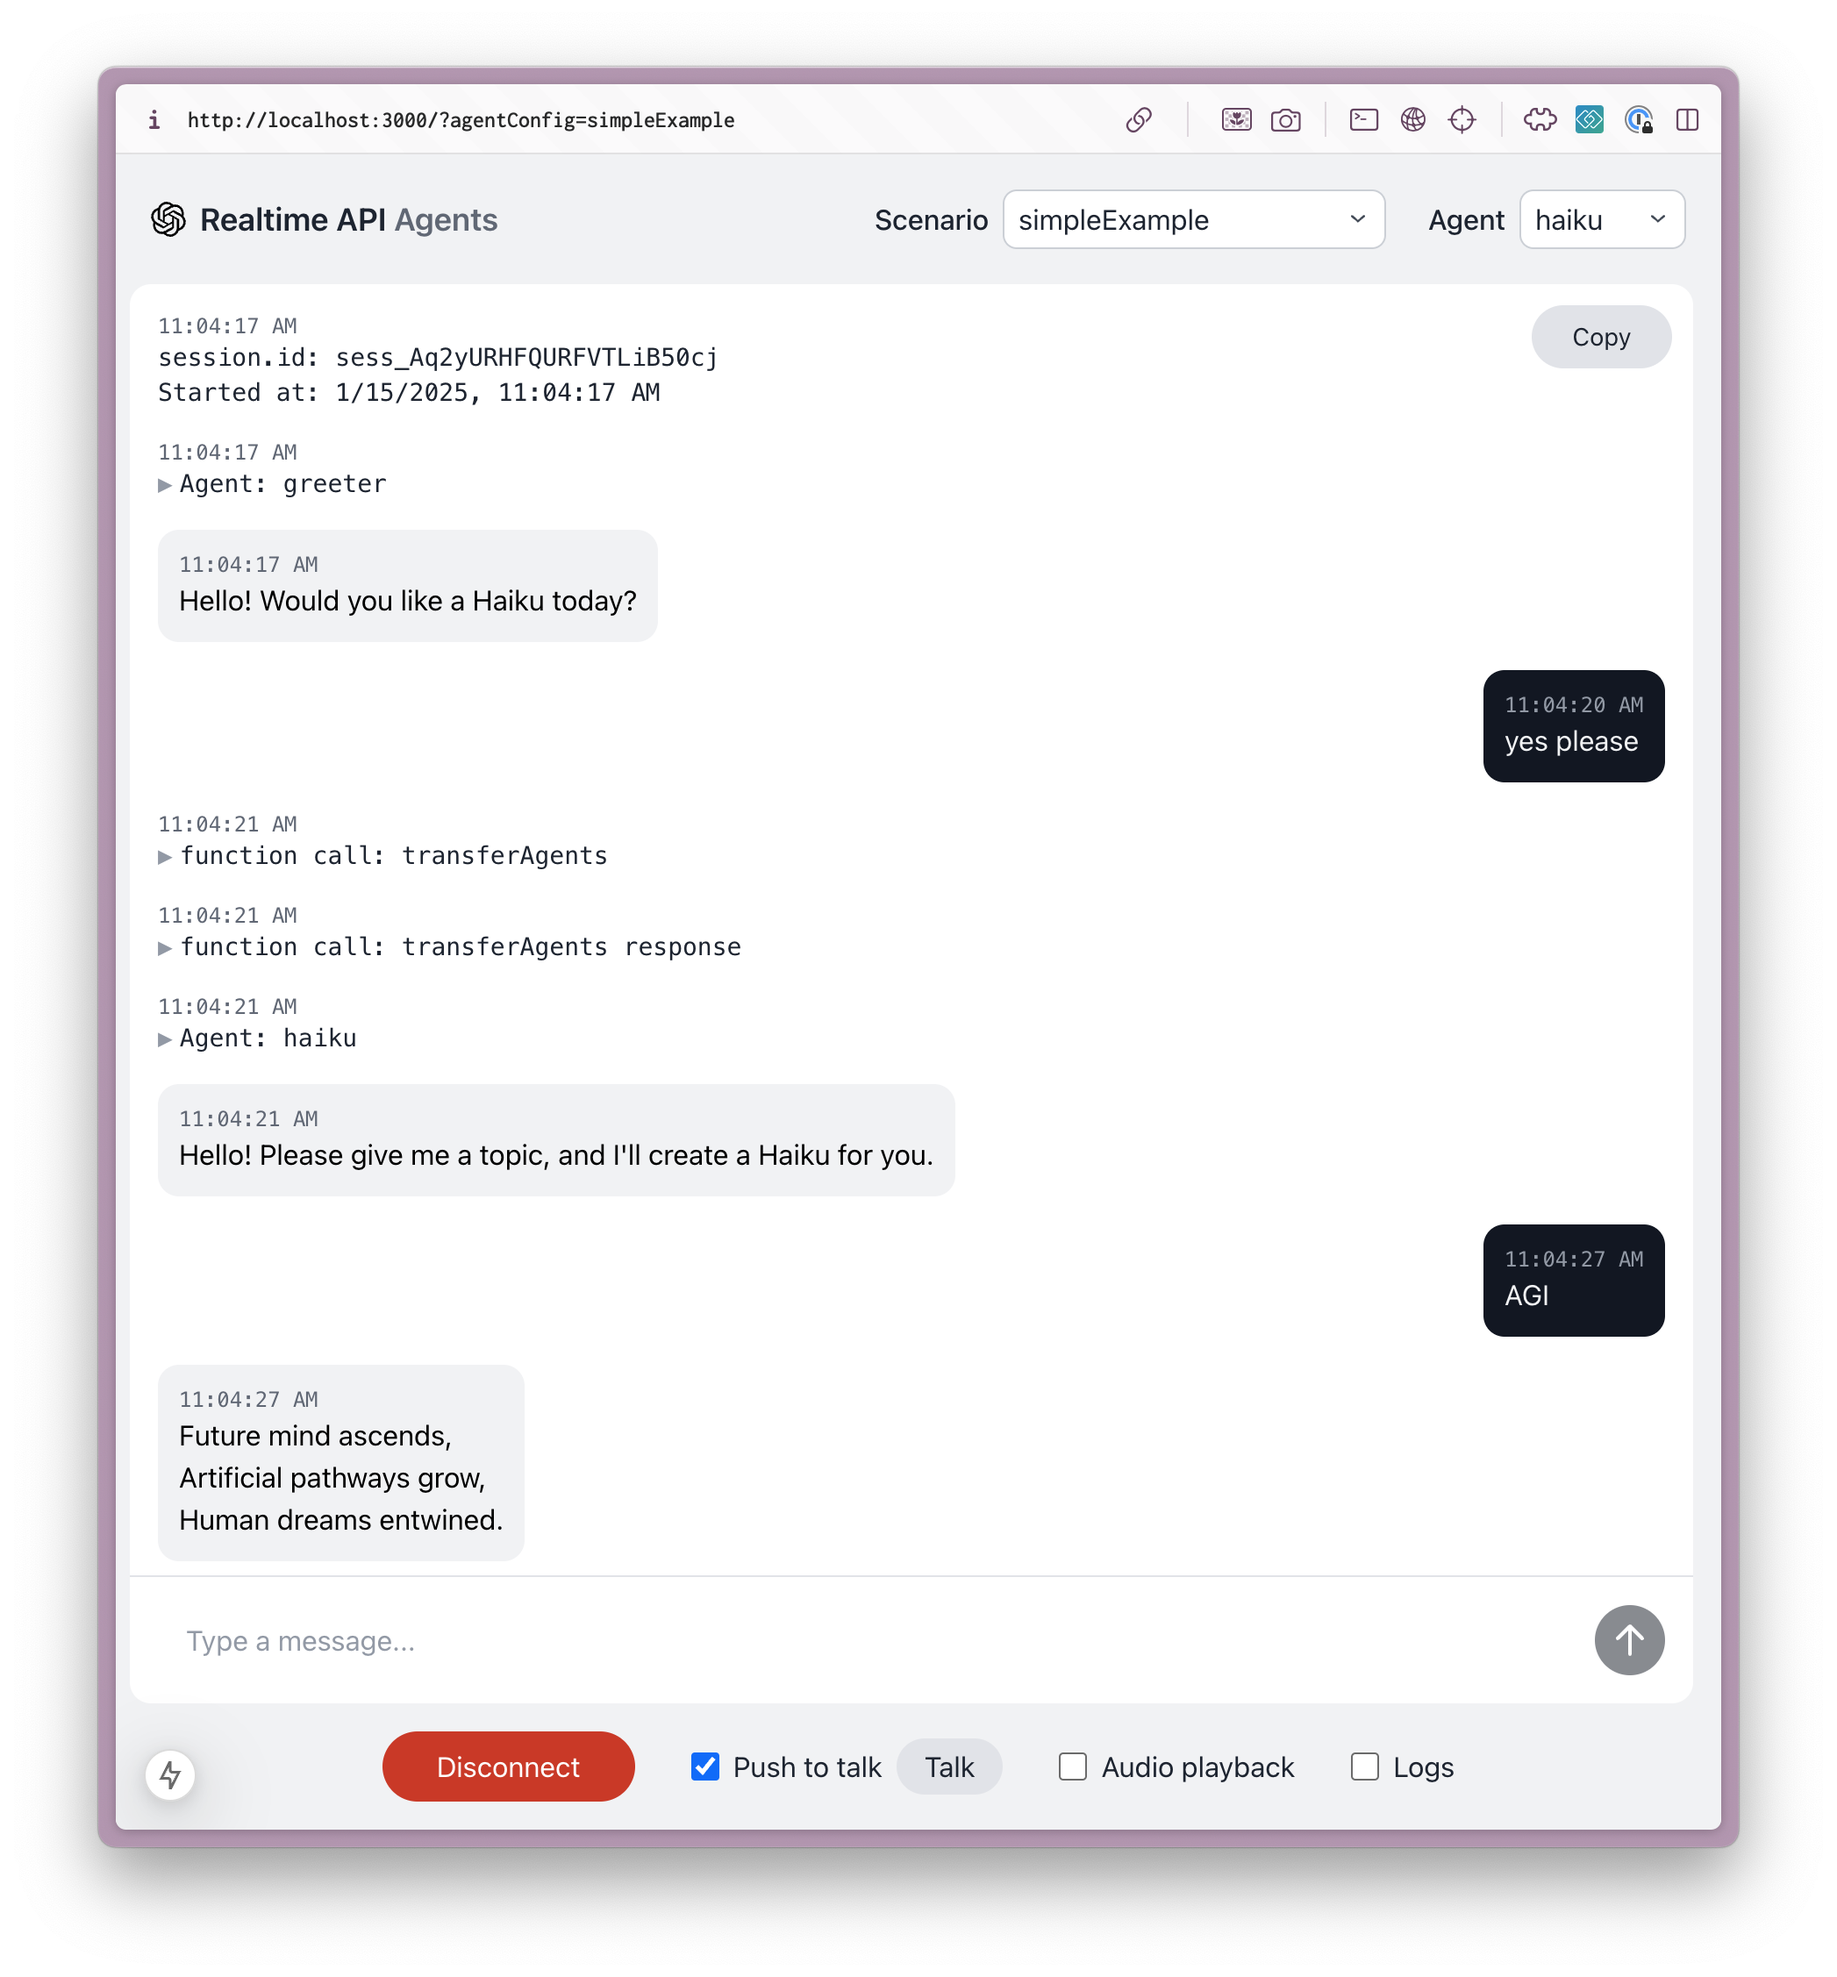
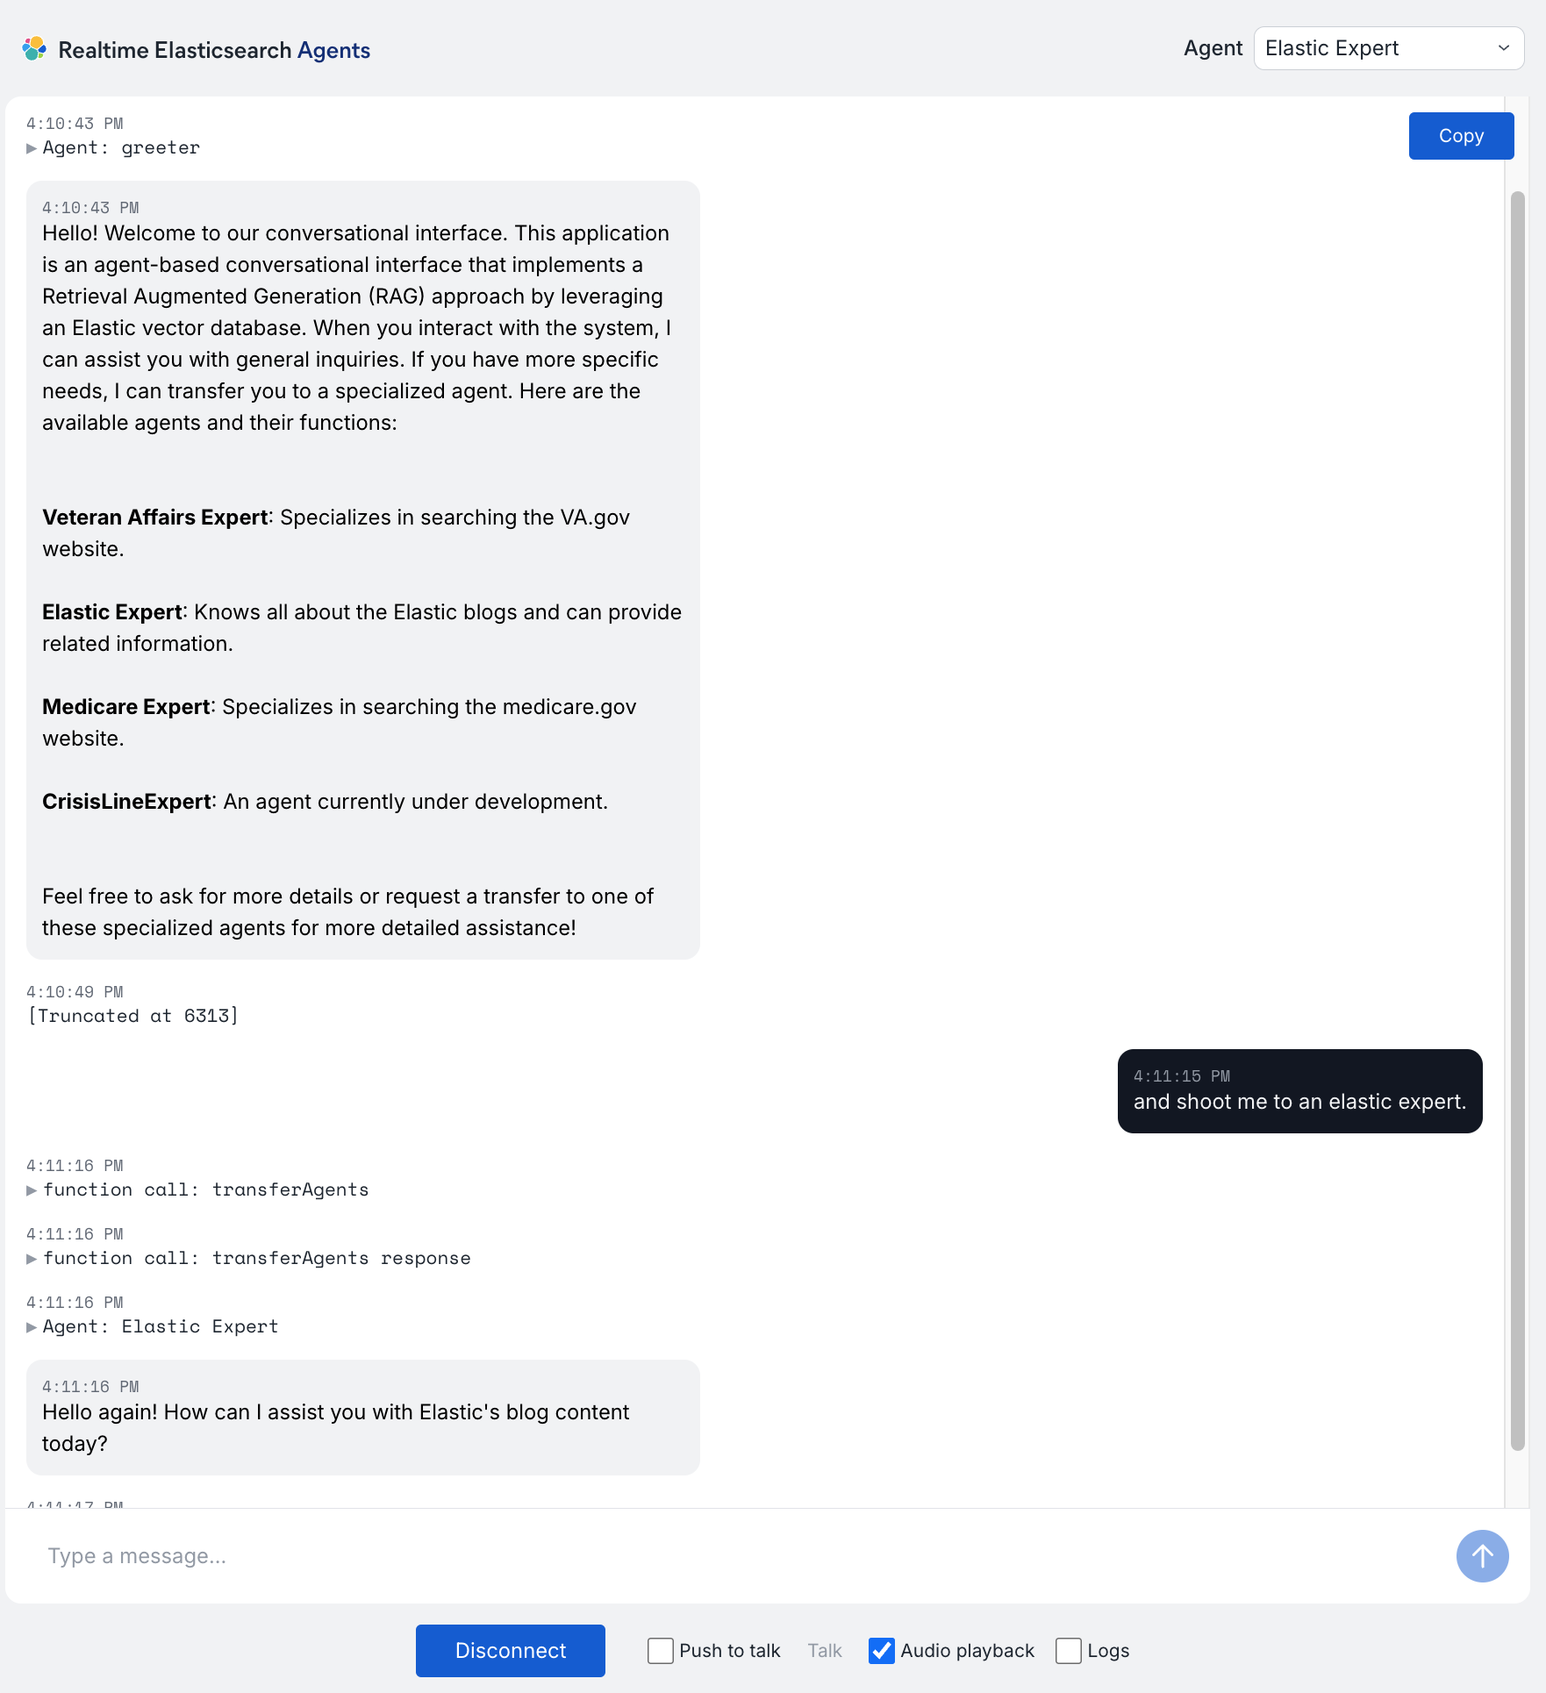
Update README.md

diff --git a/README.md b/README.md
@@ -1,9 +1,9 @@
-# Realtime API Agents Demo
+# Realtime API Agents RAG Demo
 
 This is a simple demonstration of more advanced, agentic patterns built on top of the Realtime API. In particular, this demonstrates:
+
 - Sequential agent handoffs according to a defined agent graph (taking inspiration from [OpenAI Swarm](https://github.com/openai/swarm))
-- Background escalation to more intelligent models like o1-mini for high-stakes decisions
-- Prompting models to follow a state machine, for example to accurately collect things like names and phone numbers with confirmation character by character to authenticate a user.
+- Retrieves context from a elastic vector db and passes to llm.
 
 You should be able to use this repo to prototype your own multi-agent realtime voice app in less than 20 minutes!
 
@@ -15,59 +15,24 @@ You should be able to use this repo to prototype your own multi-agent realtime v
 - Install dependencies with `npm i`
 - Add your `OPENAI_API_KEY` to your env
 - Start the server with `npm run dev`
-- Open your browser to [http://localhost:3000](http://localhost:3000) to see the app. It should automatically connect to the `simpleExample` Agent Set.
-
-## Configuring Agents
-Configuration in `src/app/agentConfigs/simpleExample.ts`
-```javascript
-import { AgentConfig } from "@/app/types";
-import { injectTransferTools } from "./utils";
-
-// Define agents
-const haiku: AgentConfig = {
-  name: "haiku",
-  publicDescription: "Agent that writes haikus.", // Context for the agent_transfer tool
-  instructions:
-    "Ask the user for a topic, then reply with a haiku about that topic.",
-  tools: [],
-};
-
-const greeter: AgentConfig = {
-  name: "greeter",
-  publicDescription: "Agent that greets the user.",
-  instructions:
-    "Please greet the user and ask them if they'd like a Haiku. If yes, transfer them to the 'haiku' agent.",
-  tools: [],
-  downstreamAgents: [haiku],
-};
-
-// add the transfer tool to point to downstreamAgents
-const agents = injectTransferTools([greeter, haiku]);
-
-export default agents;
-```
-
-This fully specifies the agent set that was used in the interaction shown in the screenshot above.
+- Open your browser to [http://localhost:3000](http://localhost:3000) to see the app. It should automatically connect to the `semanticSearch` Agent Set.
 
 ### Next steps
+
 - Check out the configs in `src/app/agentConfigs`. The example above is a minimal demo that illustrates the core concepts.
-- [frontDeskAuthentication](src/app/agentConfigs/frontDeskAuthentication) Guides the user through a step-by-step authentication flow, confirming each value character-by-character, authenticates the user with a tool call, and then transfers to another agent. Note that the second agent is intentionally "bored" to show how to prompt for personality and tone.
-- [customerServiceRetail](src/app/agentConfigs/customerServiceRetail) Also guides through an authentication flow, reads a long offer from a canned script verbatim, and then walks through a complex return flow which requires looking up orders and policies, gathering user context, and checking with `o1-mini` to ensure the return is eligible. To test this flow, say that you'd like to return your snowboard and go through the necessary prompts!
 
 ### Defining your own agents
-- You can copy these to make your own multi-agent voice app! Once you make a new agent set config, add it to `src/app/agentConfigs/index.ts` and you should be able to select it in the UI in the "Scenario" dropdown menu.
-- To see how to define tools and toolLogic, including a background LLM call, see [src/app/agentConfigs/customerServiceRetail/returns.ts](src/app/agentConfigs/customerServiceRetail/returns.ts)
-- To see how to define a detailed personality and tone, and use a prompt state machine to collect user information step by step, see [src/app/agentConfigs/frontDeskAuthentication/authentication.ts](src/app/agentConfigs/frontDeskAuthentication/authentication.ts)
-- To see how to wire up Agents into a single Agent Set, see [src/app/agentConfigs/frontDeskAuthentication/index.ts](src/app/agentConfigs/frontDeskAuthentication/index.ts)
-- If you want help creating your own prompt using these conventions, we've included a metaprompt [here](src/app/agentConfigs/voiceAgentMetaprompt.txt), or you can use our [Voice Agent Metaprompter GPT](https://chatgpt.com/g/g-678865c9fb5c81918fa28699735dd08e-voice-agent-metaprompt-gpt)
+
+- To see how to define tools and toolLogic, including a background LLM call, see [src/app/agentConfigs/semanticSearch/elasticBlogs.ts](src/app/agentConfigs/semanticSearch/elasticBlogs.ts)
 
 ## UI
-- You can select agent scenarios in the Scenario dropdown, and automatically switch to a specific agent with the Agent dropdown.
+
+- You can automatically switch to a specific agent with the Agent dropdown.
 - The conversation transcript is on the left, including tool calls, tool call responses, and agent changes. Click to expand non-message elements.
 - The event log is on the right, showing both client and server events. Click to see the full payload.
 - On the bottom, you can disconnect, toggle between automated voice-activity detection or PTT, turn off audio playback, and toggle logs.
 
 ## Core Contributors
+
 - Noah MacCallum - [noahmacca](https://x.com/noahmacca)
 - Ilan Bigio - [ibigio](https://github.com/ibigio)
-# cap
